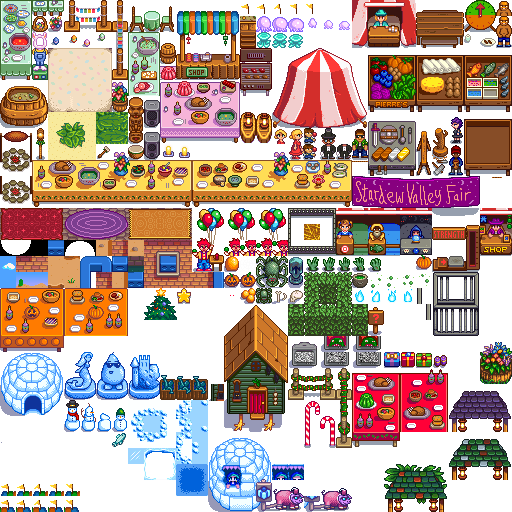
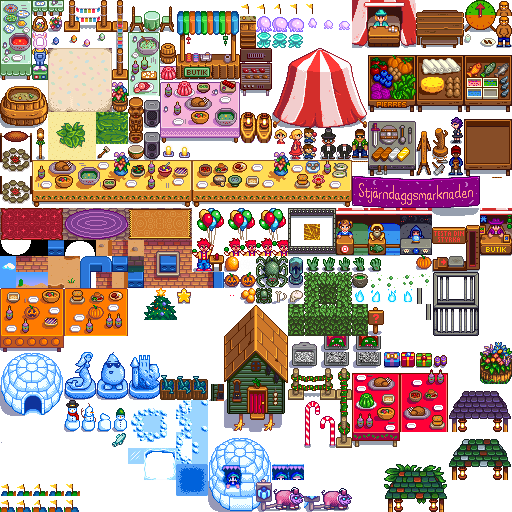
Translated various sprites

diff --git a/README.md b/README.md
@@ -30,12 +30,12 @@ This repository is used to track the progress and hold the files of a little pro
 | --------------------------- | --------------------------- | ------------------------------------------------------------------------------------------------------------------------ |
 | 100g                        | 100 G                       | To avoid confusion with the abbreviation of the [gram](https://en.wikipedia.org/wiki/Gram) unit                          |
 | Join us. Thrive.            | Thrive with us.             | To reduce the number of characters in its translated form.                                                               |
-| `House No.` + `Street Name` | `Street Name` + `House No`. | To match the house numbering format used in Sweden                                                                       |
+| `House No.` + `Street Name` | `Street Name` + `House No.` | To match the house numbering format used in Sweden                                                                       |
 | Stardew Valley Fair         | Stardew Fair                | To reduce the number of characters and prevent it from being a mouthful in its translated form while keeping its context |
 | Stardew Valley Rose         | Stardew Rose                | (_Same as above_)                                                                                                        |
-| `<Item>` Juice              | Juice (`<Item>`)            | To avoid incorrect grammar and/or use of uppercase.                                                                      |
-| `<Item>` Roe                | Roe (`<Item>`)              | (_Same as above_)                                                                                                        |
-| `<Item>` Wine               | Wine (`<Item>`)             | (_Same as above_)                                                                                                        |
+| `Item` Juice                | Juice (`Item`)              | To avoid incorrect grammar and/or use of uppercase.                                                                      |
+| `Item` Roe                  | Roe (`Item`)                | (_Same as above_)                                                                                                        |
+| `Item` Wine                 | Wine (`Item`)               | (_Same as above_)                                                                                                        |
 
 ## :memo: Notes
 * [paint.net](https://www.getpaint.net/) was used for editing sprites.
